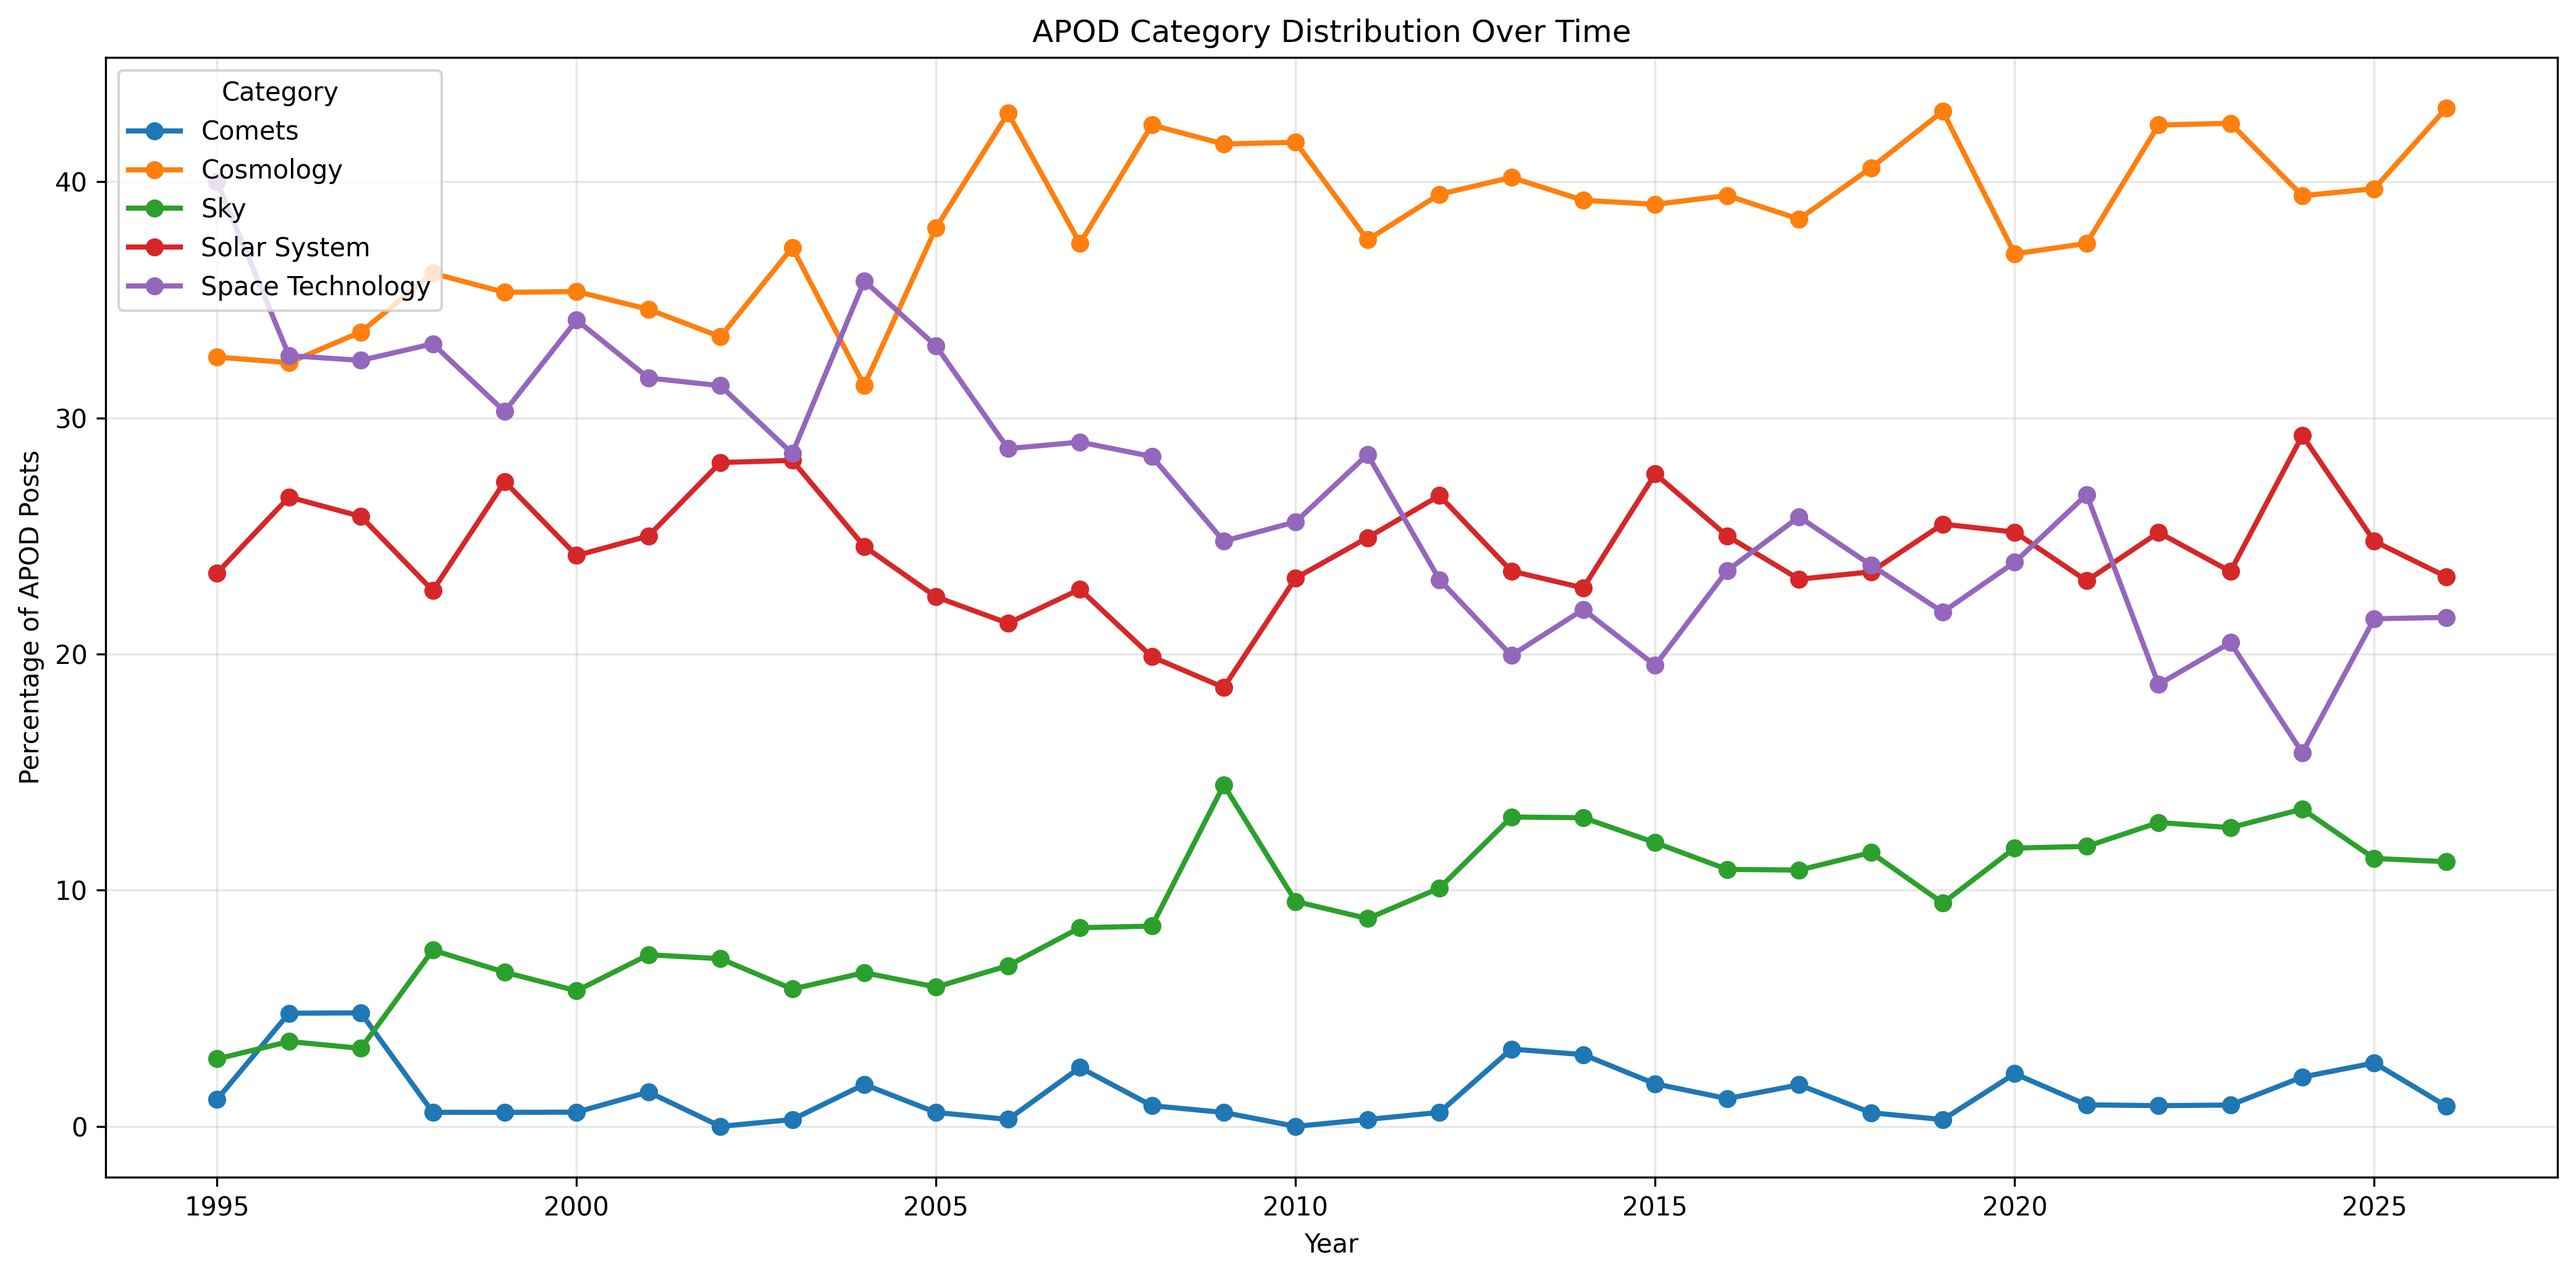
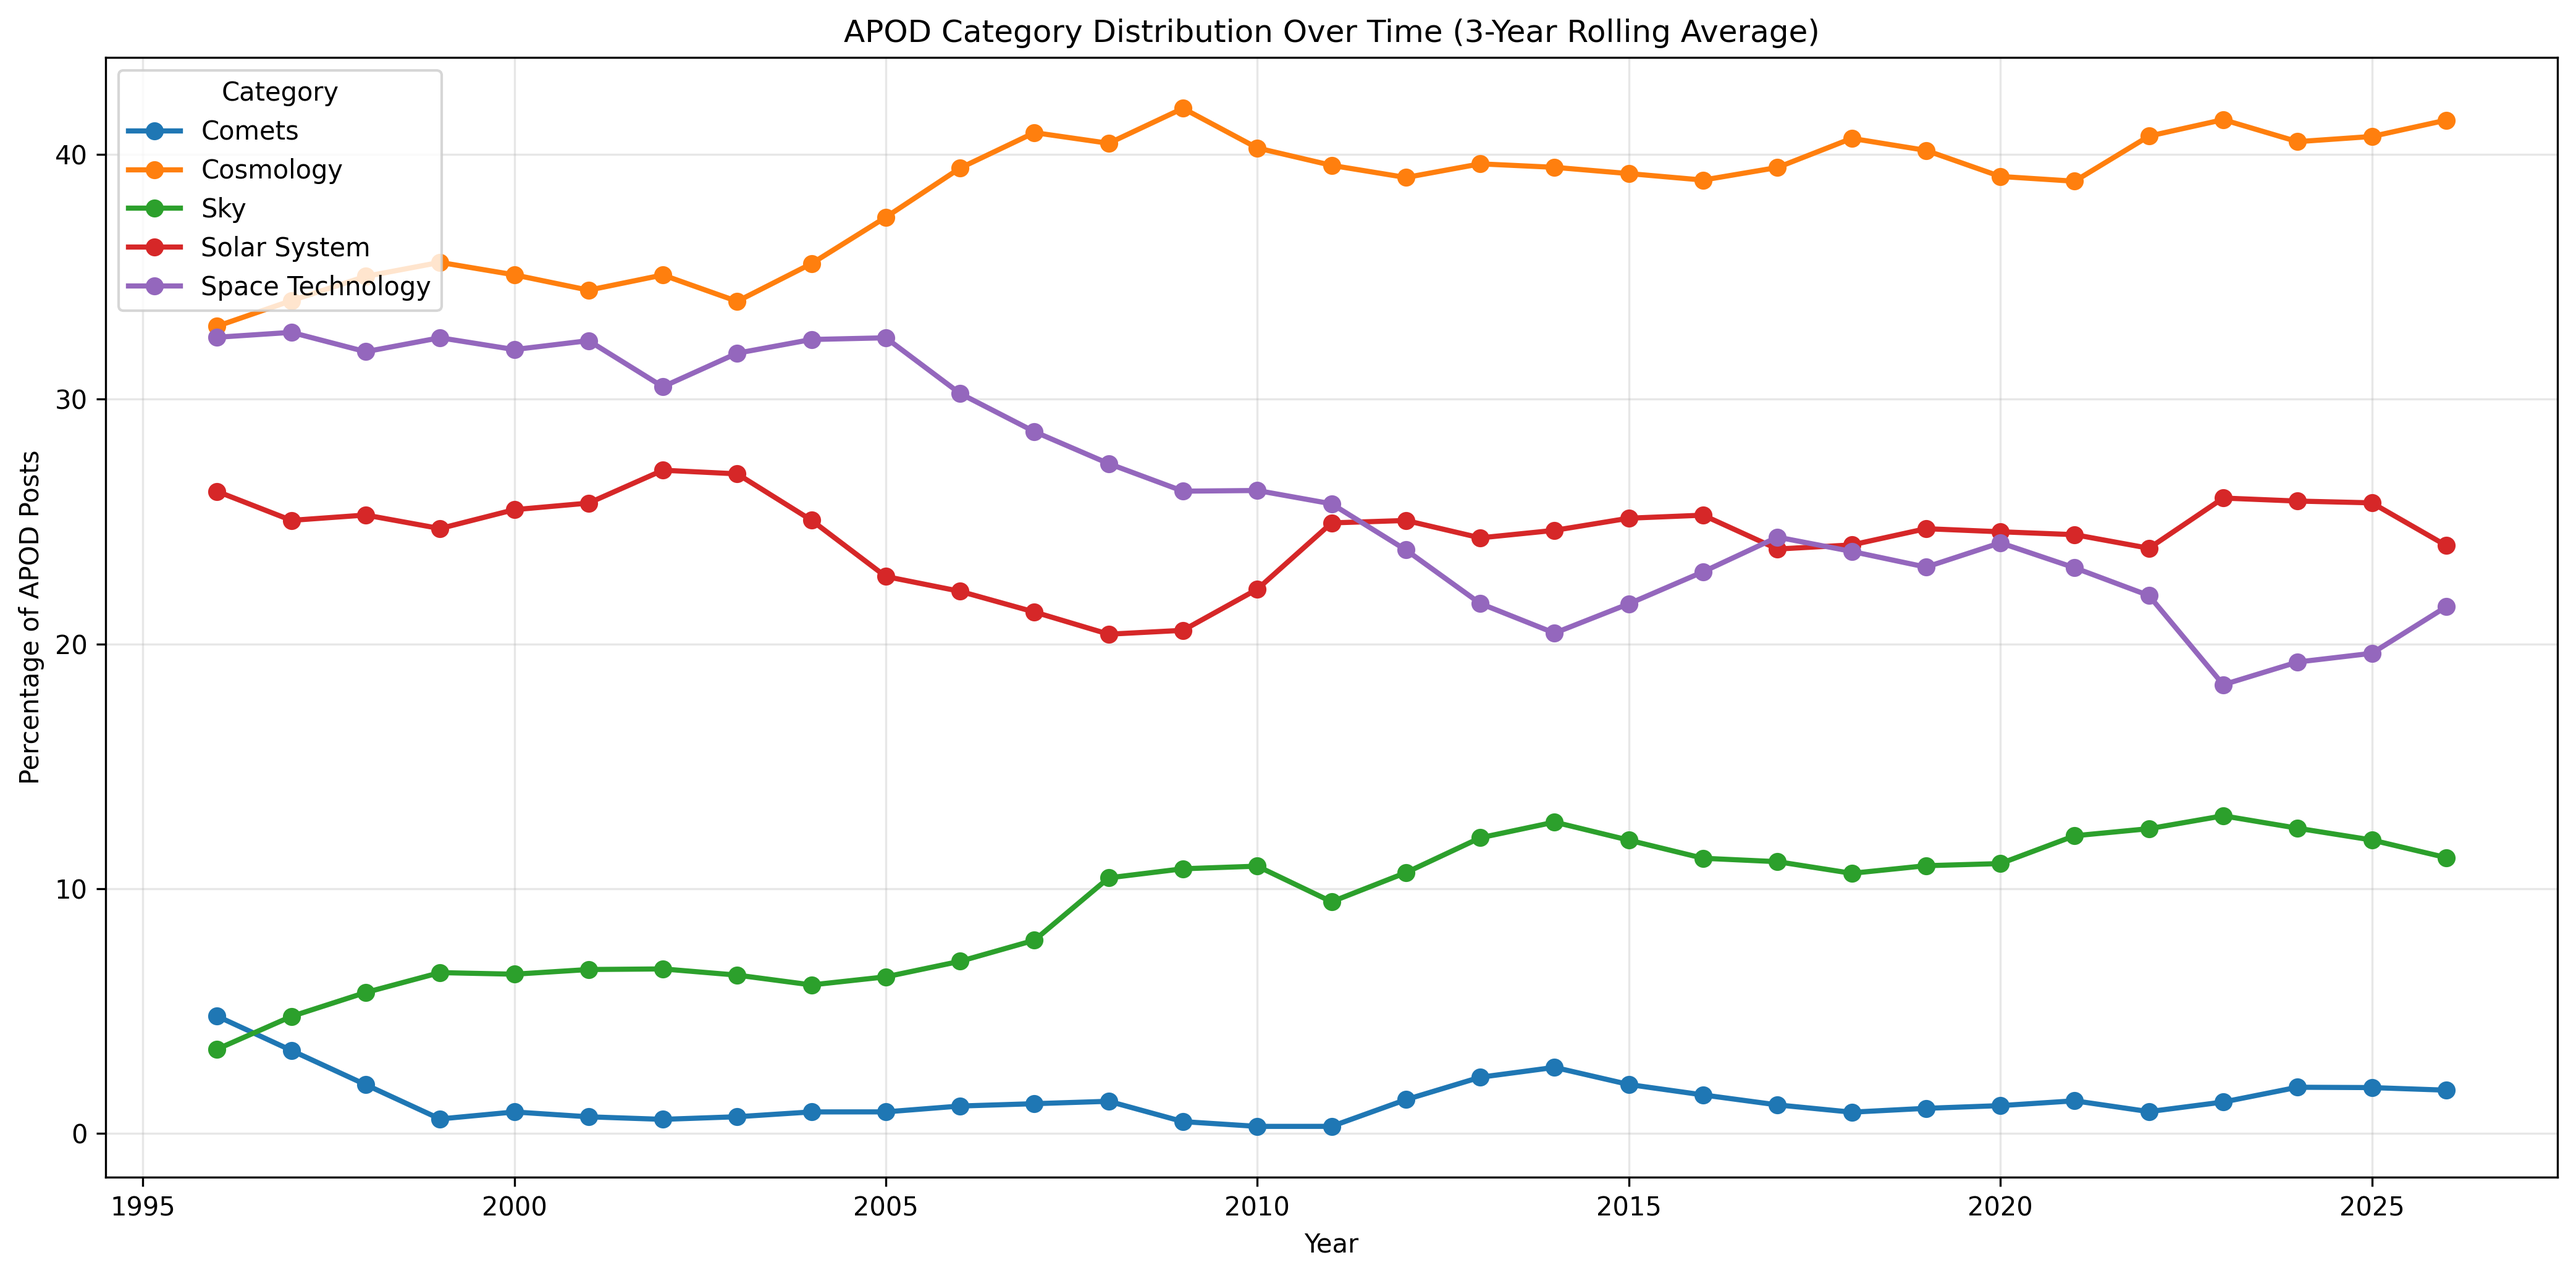
Smoothed Graph
Added 3 year rolling average to remove noise, and started graph in 1996 because 1995 does not have as many entries

diff --git a/src/apod_visualizer.py b/src/apod_visualizer.py
@@ -246,44 +246,39 @@ def save_yearly_category_pie_chart_pages(
 
 def save_apod_distribution_line_graph(
     labeled_df: pd.DataFrame,
-    output_path: str = f"{OUTPUT_FOLDER}/apod_distribution_over_time.png",
+    output_path: str = "data/vis/apod_distribution_over_time.png",
     category_col: str = "final_label",
     date_col: str = "date",
-    normalize: bool = True
+    normalize: bool = True,
+    rolling_window: int = 3,
+    start_year: int = 1996
 ) -> None:
     """
-    Save a line graph showing the distribution of APOD post categories over time.
+    Save a line graph showing APOD category distribution over time.
 
     All labels beginning with 'Cosmos >' are combined into one category:
     'Cosmology'.
 
-    Parameters
-    ----------
-    labeled_df : pd.DataFrame
-        Labeled APOD dataset.
-
-    output_path : str, default="data/vis/apod_distribution_over_time.png"
-        Where the PNG file should be saved.
-
-    category_col : str, default="final_label"
-        Column containing APOD category labels.
-
-    date_col : str, default="date"
-        Column containing APOD dates.
-
-    normalize : bool, default=True
-        If True, plots percentages per year.
-        If False, plots raw counts per year.
+    A centered rolling average is applied to smooth year-to-year noise.
     """
+
+    if rolling_window <= 0:
+        raise ValueError("rolling_window must be greater than 0.")
 
     output_path = Path(output_path)
     output_path.parent.mkdir(parents=True, exist_ok=True)
 
-    df = normalize_df(labeled_df)
-    
+    df = normalize_df(
+        labeled_df,
+        date_col=date_col,
+        category_col=category_col
+    )
+
     df["year"] = df[date_col].dt.year
 
-    # Combine every Cosmos subcategory into one category
+    # Start at 1996 because 1995 is incomplete
+    df = df[df["year"] >= start_year]
+
     df["plot_category"] = df[category_col].apply(
         lambda label: "Cosmology" if str(label).startswith("Cosmos >") else label
     )
@@ -298,11 +293,18 @@ def save_apod_distribution_line_graph(
     if normalize:
         yearly_values = yearly_counts.div(yearly_counts.sum(axis=1), axis=0) * 100
         y_label = "Percentage of APOD Posts"
-        title = "APOD Category Distribution Over Time"
+        title = f"APOD Category Distribution Over Time ({rolling_window}-Year Rolling Average)"
     else:
         yearly_values = yearly_counts
         y_label = "Number of APOD Posts"
-        title = "APOD Category Counts Over Time"
+        title = f"APOD Category Counts Over Time ({rolling_window}-Year Rolling Average)"
+
+    # 3-year centered rolling average
+    yearly_values = yearly_values.rolling(
+        window=rolling_window,
+        center=True,
+        min_periods=1
+    ).mean()
 
     plt.figure(figsize=(14, 7))
 
